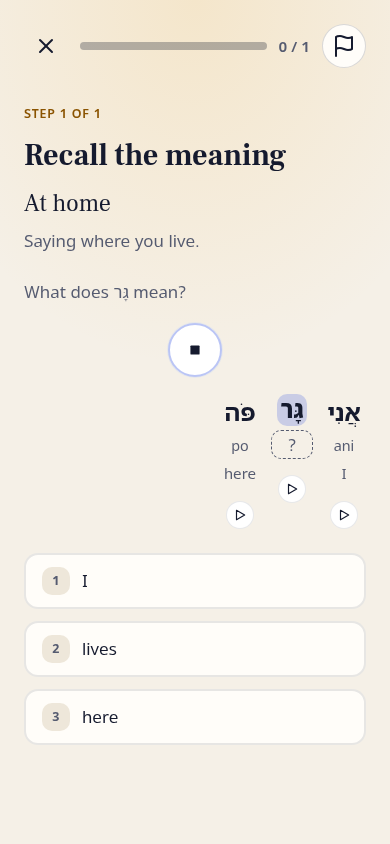
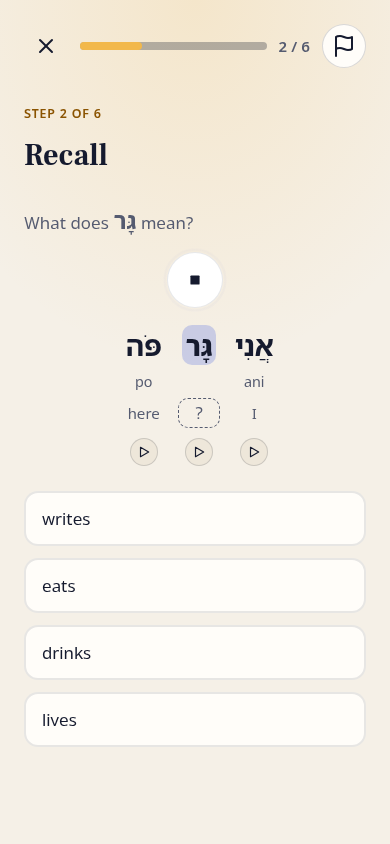
Let a long recall line wrap, and keep native bars in the orb row.
Text rows grow with a wrapping gloss, the orb row grows to the bar, and five words start a second band at 390. The bars fill their columns instead of the 16rem default.

diff --git a/internal/web/static/css/base.css b/internal/web/static/css/base.css
@@ -1377,18 +1377,28 @@ mark.target .wb__he {
 .activity .word-blocks { align-items: stretch; }
 .activity-word > .clip { margin-block-start: auto; }
 /* A multi-word recall shares one grid: Hebrew, transliteration, gloss, orb.
-   An empty transliteration row keeps its height, so the "?" slot cannot
-   lift the target's orb. The line is centred under the hero orb. Each
-   text row is one gloss line, and it grows if the slot is taller. */
+   Text rows are at least one line and grow when a gloss wraps, so the extra
+   line does not paint over the orb. The orb row is at least a tap target and
+   grows to the native bar. Four content-sized tracks fit a phone; a fifth
+   word starts the next band instead of overflowing sideways. Wider viewports
+   keep a longer line on one band. The line stays centred. */
 .word-blocks--recall {
   display: grid;
-  grid-auto-flow: column;
-  grid-template-rows: auto calc(var(--fs-small) * var(--lh-body)) calc(var(--fs-small) * var(--lh-body)) var(--size-tap);
+  grid-template-columns: repeat(4, fit-content(7rem));
+  grid-auto-rows: auto minmax(1lh, auto) minmax(1lh, auto) minmax(var(--size-tap), auto);
+  grid-auto-flow: row;
   justify-content: center;
-  justify-items: center;
+  justify-items: stretch;
   align-items: stretch;
   column-gap: var(--space-2);
   row-gap: var(--space-1);
+  max-inline-size: 100%;
+}
+@media (min-width: 720px) {
+  .word-blocks--recall { grid-template-columns: repeat(8, fit-content(7rem)); }
+}
+@media (min-width: 1440px) {
+  .word-blocks--recall { column-gap: var(--space-4); }
 }
 .word-blocks--recall > .activity-word {
   display: grid;
@@ -1397,6 +1407,8 @@ mark.target .wb__he {
   align-items: center;
   justify-items: center;
   gap: 0;
+  min-inline-size: 0;
+  max-inline-size: 100%;
 }
 .word-blocks--recall > .activity-word > .wb {
   display: grid;
@@ -1406,7 +1418,33 @@ mark.target .wb__he {
   justify-items: center;
   gap: 0;
 }
-.word-blocks--recall > .activity-word > .clip { margin-block-start: 0; }
+/* The native bar sits in the orb row, under its word. It fills that column
+   instead of the 16rem default, so three bars do not set the column widths.
+   min-inline-size: 0 keeps the control's intrinsic minimum out of the track. */
+.word-blocks--recall > .activity-word > .clip {
+  margin-block-start: 0;
+  inline-size: 100%;
+  min-inline-size: 0;
+  max-inline-size: 100%;
+}
+.word-blocks--recall .clip > audio {
+  inline-size: 0;
+  min-inline-size: 100%;
+  max-inline-size: 100%;
+}
+.word-blocks--recall .recall-tr,
+.word-blocks--recall .recall-gl {
+  max-inline-size: 100%;
+  padding-inline: var(--space-1);
+  text-align: center;
+}
+.word-blocks--recall .wb__tr,
+.word-blocks--recall .wb__gl {
+  display: block;
+  max-inline-size: 5.5rem;
+  white-space: normal;
+  overflow-wrap: break-word;
+}
 .word-blocks--recall .wb__he {
   font-family: var(--font-he);
   font-size: var(--fs-he-lg);
@@ -1536,7 +1574,10 @@ html.js .orb--hero:hover { background: var(--surface-soft); }
   background: var(--surface-soft);
   border: 1px solid var(--hairline-strong);
 }
-html.js .orb--word:hover::before { background: var(--surface-soft); }
+html.js .orb--word:hover::before {
+  background: var(--surface-raised);
+  border-color: var(--text);
+}
 .orb--word[data-state="error"]::before {
   border-style: dashed;
   border-color: var(--muted);

diff --git a/internal/web/lesson_test.go b/internal/web/lesson_test.go
@@ -885,6 +885,43 @@ func assertClipFallbackCSS(t *testing.T, css string) {
 	}
 }
 
+// assertRecallLineCSS checks the review of the recall grid. Text rows grow,
+// the orb row grows to the native bar, five words wrap because only four
+// tracks fit on a phone, and the wide gap is the 16px space token.
+func assertRecallLineCSS(t *testing.T, css string) {
+	t.Helper()
+	grid := cssRuleBody(t, css, ".word-blocks--recall")
+	for _, need := range []string{
+		"repeat(4, fit-content(7rem))",
+		"minmax(1lh, auto)",
+		"minmax(var(--size-tap), auto)",
+		"justify-content: center",
+	} {
+		if !strings.Contains(grid, need) {
+			t.Errorf("recall grid missing %s:\n%s", need, grid)
+		}
+	}
+	if strings.Contains(grid, "grid-auto-flow: column") {
+		t.Fatal("the recall line still flows in columns, so a long line cannot wrap")
+	}
+	if !strings.Contains(css, "repeat(8, fit-content(7rem))") {
+		t.Fatal("a wide viewport still wraps a five-word line")
+	}
+	wide := css[strings.Index(css, "@media (min-width: 1440px)"):]
+	wide = wide[:strings.Index(wide, "}")+1]
+	if !strings.Contains(wide, "column-gap: var(--space-4)") {
+		t.Fatalf("1440 column gap is not --space-4:\n%s", wide)
+	}
+	hover := cssRuleBody(t, css, "html.js .orb--word:hover::before")
+	if !strings.Contains(hover, "var(--surface-raised)") || !strings.Contains(hover, "border-color: var(--text)") {
+		t.Fatalf("word orb hover has no colour change:\n%s", hover)
+	}
+	bars := cssRuleBody(t, css, ".word-blocks--recall .clip > audio")
+	if strings.Contains(bars, "16rem") {
+		t.Fatalf("recall bars still use the 16rem width:\n%s", bars)
+	}
+}
+
 // cssRuleBody returns the declaration block of the rule whose selector is
 // exactly selector. A longer selector that merely contains it is skipped.
 func cssRuleBody(t *testing.T, css, selector string) string {
@@ -953,6 +990,7 @@ func TestClipScript(t *testing.T) {
 	}
 	css := readStatic(t, "static/css/base.css")
 	assertClipFallbackCSS(t, css)
+	assertRecallLineCSS(t, css)
 	if !strings.Contains(css, ".orb--hero") || !strings.Contains(css, "var(--size-cta)") || !strings.Contains(css, "var(--size-tap)") || !strings.Contains(css, "inline-size: 28px") {
 		t.Fatal("hero and word orb sizes are missing")
 	}
